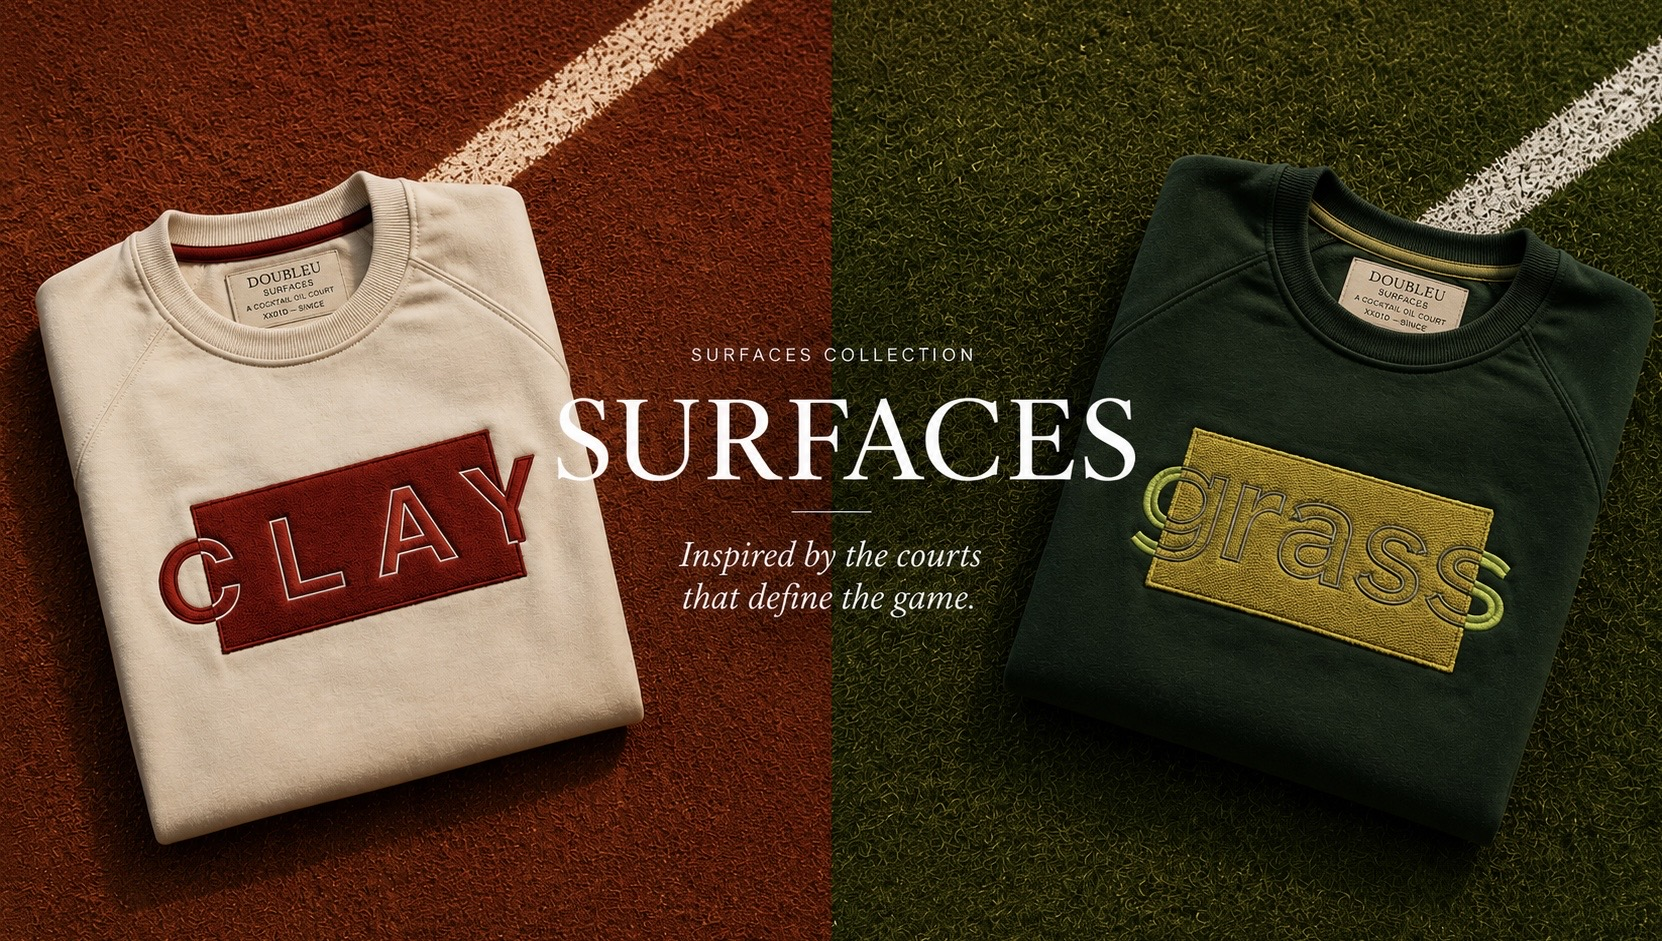
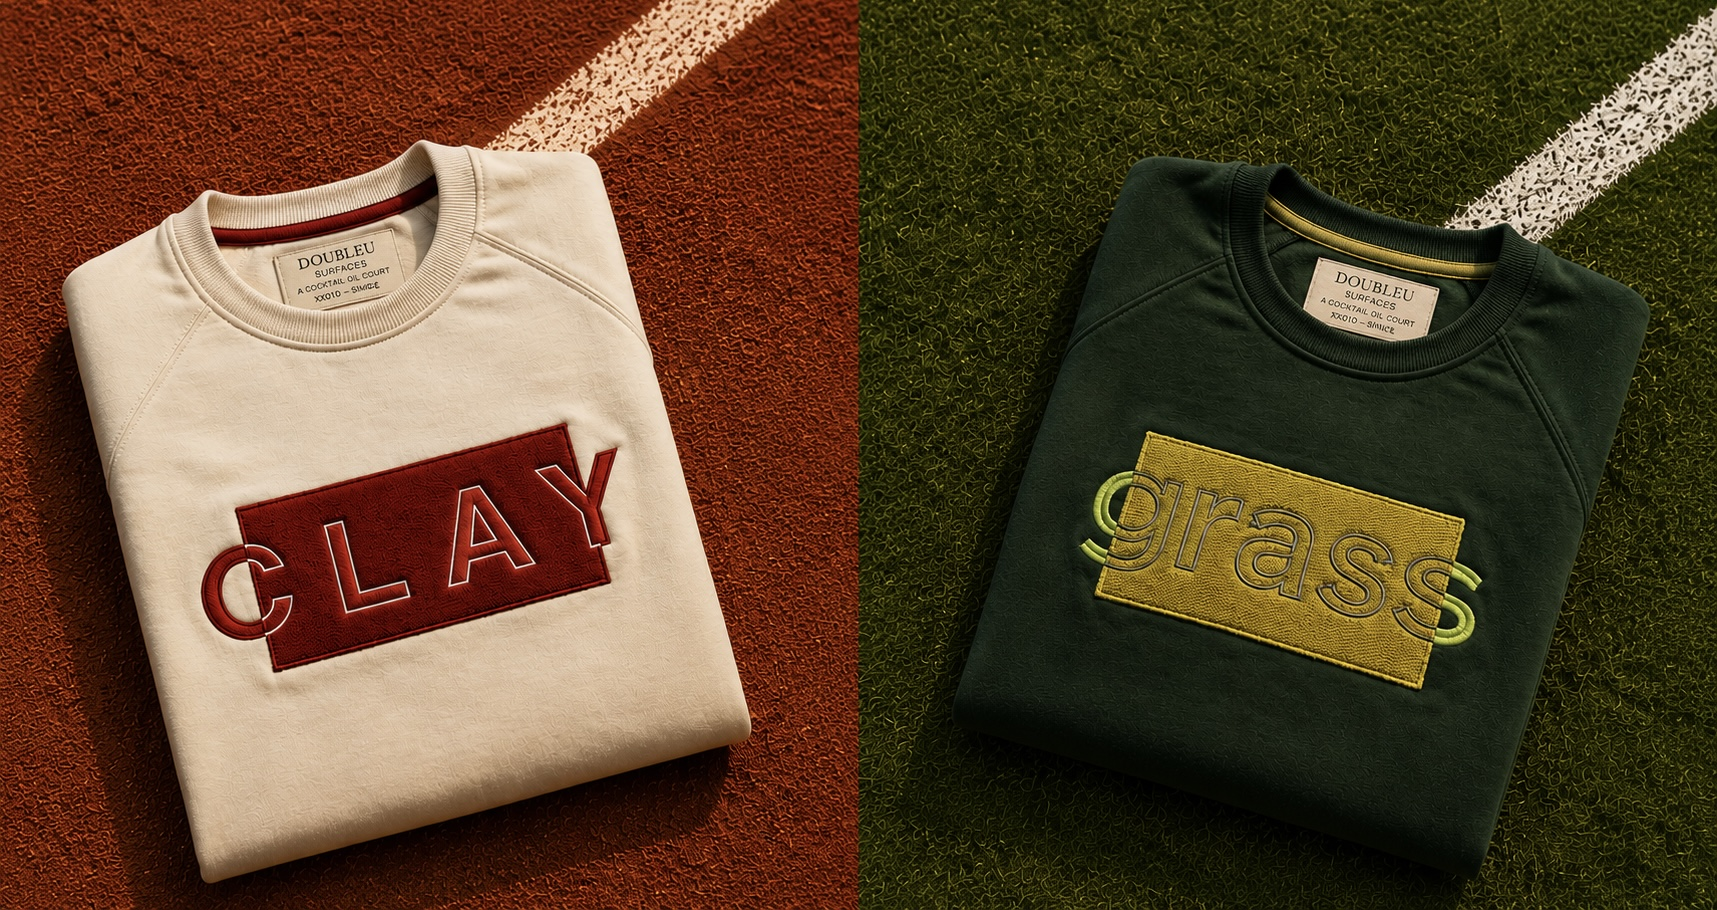
Hero surfaces: immagine senza testo + claim centrato e ridotto
- Sostituita hero-surfaces.jpg con versione pulita (senza testo impresso)
- Hero hub centrata (verticale/orizzontale) e claim piu piccolo via variante surf-hero--center

https://claude.ai/code/session_01WDh1zTvBaV4LJ3NyUe2hVV

diff --git a/surfaces.html b/surfaces.html
@@ -55,6 +55,13 @@
 .surf-hero-badge-line { font-size: 9px; font-weight: 500; letter-spacing: .38em; text-transform: uppercase; color: rgba(245,240,232,.38); margin-bottom: 10px; }
 .surf-hero-badge-text { font-family: var(--surf-serif); font-size: 20px; font-style: italic; color: rgba(245,240,232,.65); line-height: 1.55; }
 
+/* HERO — centered hub variant */
+.surf-hero--center { align-items: center; }
+.surf-hero--center .surf-hero-content { grid-template-columns: 1fr; justify-items: center; text-align: center; padding: 0 28px; }
+.surf-hero--center .surf-hero-left { max-width: 640px; }
+.surf-hero--center .surf-hero-title { font-size: clamp(30px,4vw,58px); margin-bottom: 32px; }
+.surf-hero--center .surf-hero-actions { justify-content: center; }
+
 /* MANIFESTO */
 .surf-manifesto { background: var(--surf-charcoal); padding: 112px 80px; text-align: center; position: relative; overflow: hidden; }
 .surf-m-tag { font-size: 9px; font-weight: 500; letter-spacing: .42em; text-transform: uppercase; color: var(--surf-clay-light); margin-bottom: 36px; }
@@ -209,7 +216,7 @@
   <main>
 
     <!-- HERO -->
-    <section class="surf-hero">
+    <section class="surf-hero surf-hero--center">
       <div class="surf-hero-img">
         <img src="surfaces/img/hero-surfaces.jpg" alt="SURFACES Collection — DOUBLEU">
       </div>